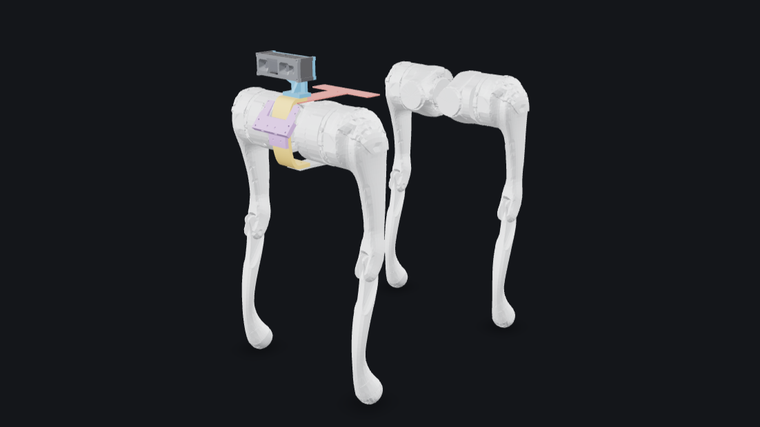
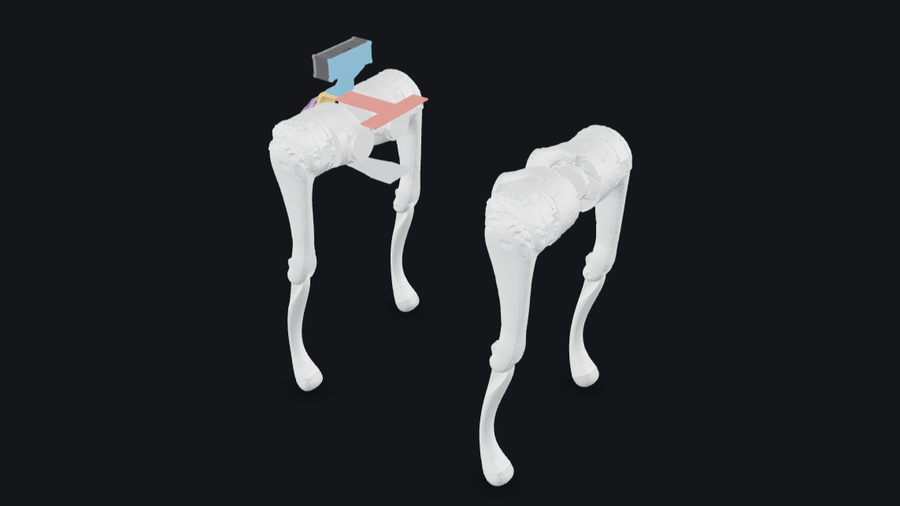
查看器改为鼠标拖动：默认不自动旋转，README 用静态图+可点击进入
- 移除 auto-rotate，新增「自动旋转：开/关」按钮（默认关）
- 默认视角改为 215deg/58deg，相机组件更清楚
- README 用 poster.png 静态图（可点击）替换自动旋转 GIF
- 删除 turntable.gif

Changed region(s): [[0.2724, 0.0609, 0.7263, 0.9742]]

diff --git a/web3d/viewer.html b/web3d/viewer.html
@@ -12,6 +12,8 @@
   .seg button{background:transparent;color:#9fc1e8;border:0;padding:8px 16px;font-size:14px;cursor:pointer}
   .seg button.on{background:#2f6fb3;color:#fff}
   .hint{margin-left:auto;font-size:12px;color:#8a919e}
+  .spin{margin-left:10px;background:transparent;color:#9fc1e8;border:1px solid #3a72b0;border-radius:8px;padding:8px 14px;font-size:14px;cursor:pointer}
+  .spin.on{background:#2f6fb3;color:#fff}
   model-viewer{width:100%;height:calc(100% - 57px);background:#14161a;--poster-color:#14161a}
   body.embed header{display:none}
   body.embed model-viewer{height:100%}
@@ -26,10 +28,11 @@
     <button id="bFull" class="on">完整总装</button>
     <button id="bSensors">传感器安装部分</button>
   </div>
-  <span class="hint">拖拽旋转 · 滚轮/双指缩放 · 右键/三指平移 · 手机可点 AR</span>
+  <span class="hint">按住左键拖动旋转 · 滚轮/双指缩放 · 右键/三指平移 · 手机可点 AR</span>
+  <button id="bSpin" class="spin">自动旋转：关</button>
 </header>
-<model-viewer id="mv" poster="./poster.png" camera-controls auto-rotate auto-rotate-delay="2500"
-  camera-orbit="205deg 72deg auto"
+<model-viewer id="mv" poster="./poster.png" camera-controls
+  camera-orbit="215deg 58deg auto"
   shadow-intensity="1" exposure="1.05" max-camera-orbit="auto 180deg 3m" touch-action="pan-y"
   ar ar-modes="webxr scene-viewer quick-look" environment-image="neutral" interaction-prompt="none">
   <button slot="ar-button" style="position:absolute;right:12px;bottom:14px;background:#2f6fb3;color:#fff;border:0;border-radius:8px;padding:8px 14px">📱 AR 视图</button>
@@ -38,7 +41,7 @@
 const mv=document.getElementById('mv');
 const bF=document.getElementById('bFull'),bS=document.getElementById('bSensors');
 const VIEWS={
-  full:   {src:'assets/go2_full.glb',    orbit:'205deg 72deg auto'},
+  full:   {src:'assets/go2_full.glb',    orbit:'215deg 58deg auto'},
   sensors:{src:'assets/go2_sensors.glb', orbit:'205deg 66deg auto'}
 };
 if(new URLSearchParams(location.search).get('embed')==='1')document.body.classList.add('embed');
@@ -52,6 +55,18 @@ function set(which){
 }
 bF.onclick=()=>set('full');
 bS.onclick=()=>set('sensors');
+
+// 自动旋转默认关闭：只有用户点按钮才转，其余时间完全由鼠标拖动控制
+const bSp=document.getElementById('bSpin');
+mv.autoRotate=false;
+bSp.onclick=()=>{
+  const on=!mv.autoRotate;
+  mv.autoRotate=on;
+  mv.autoRotateDelay=0;
+  bSp.classList.toggle('on',on);
+  bSp.textContent='自动旋转：'+(on?'开':'关');
+};
+
 mv.addEventListener('load',()=>mv.jumpCameraToGoal());
 window.addEventListener('hashchange',()=>{
   const want=location.hash==='#sensors'?'sensors':'full';
